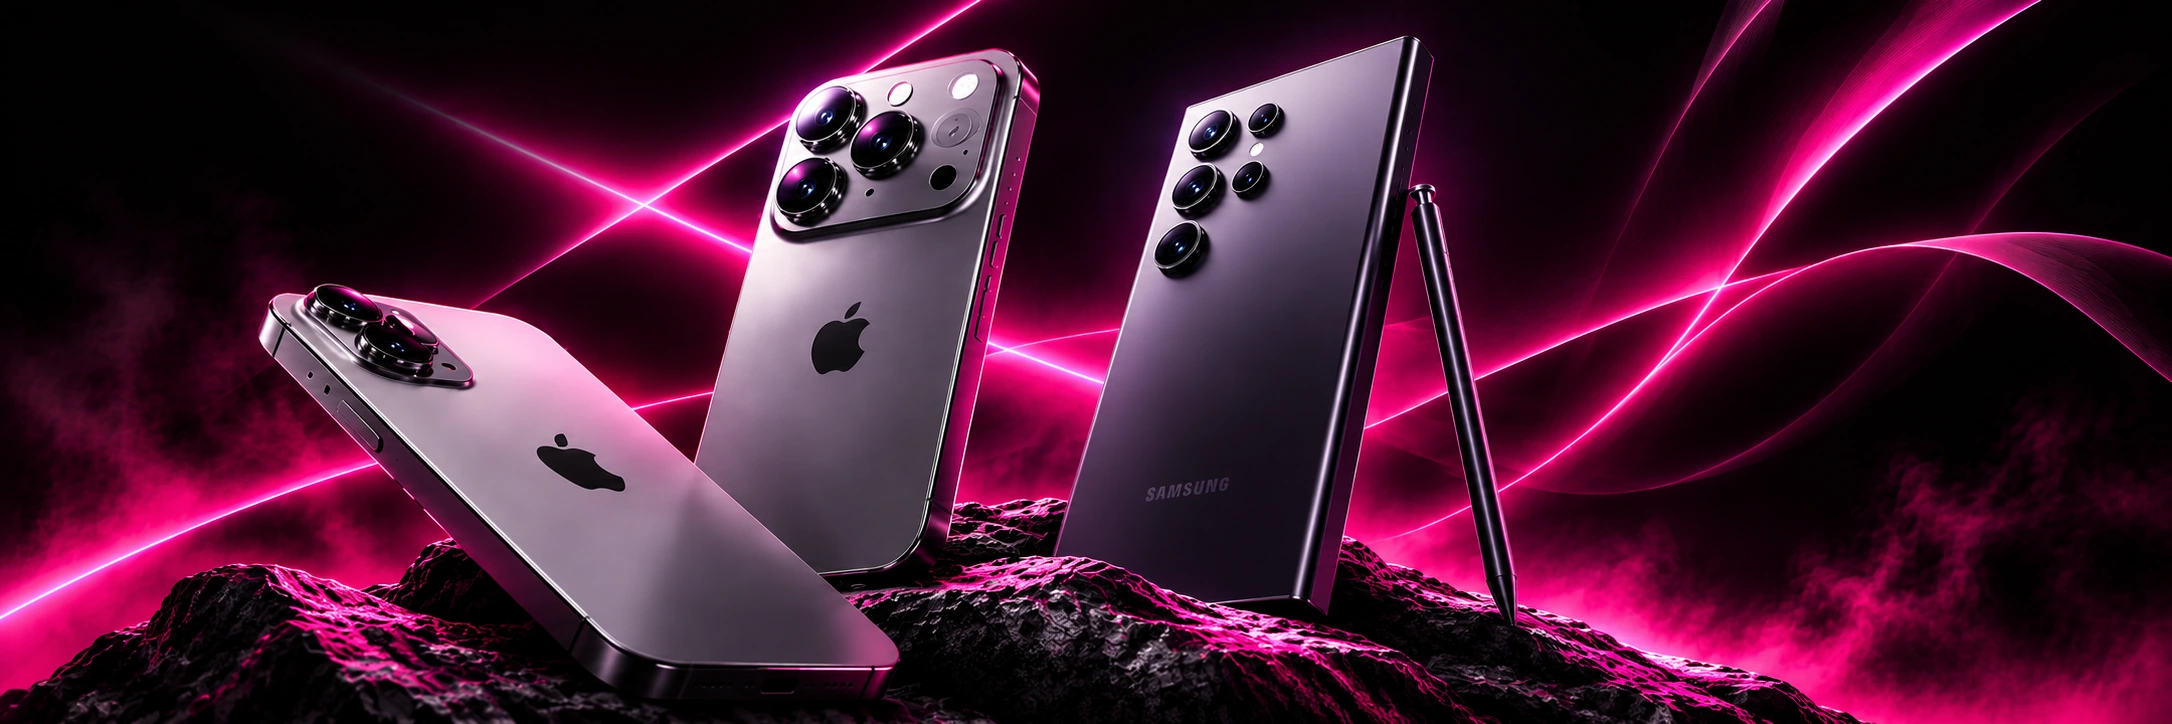
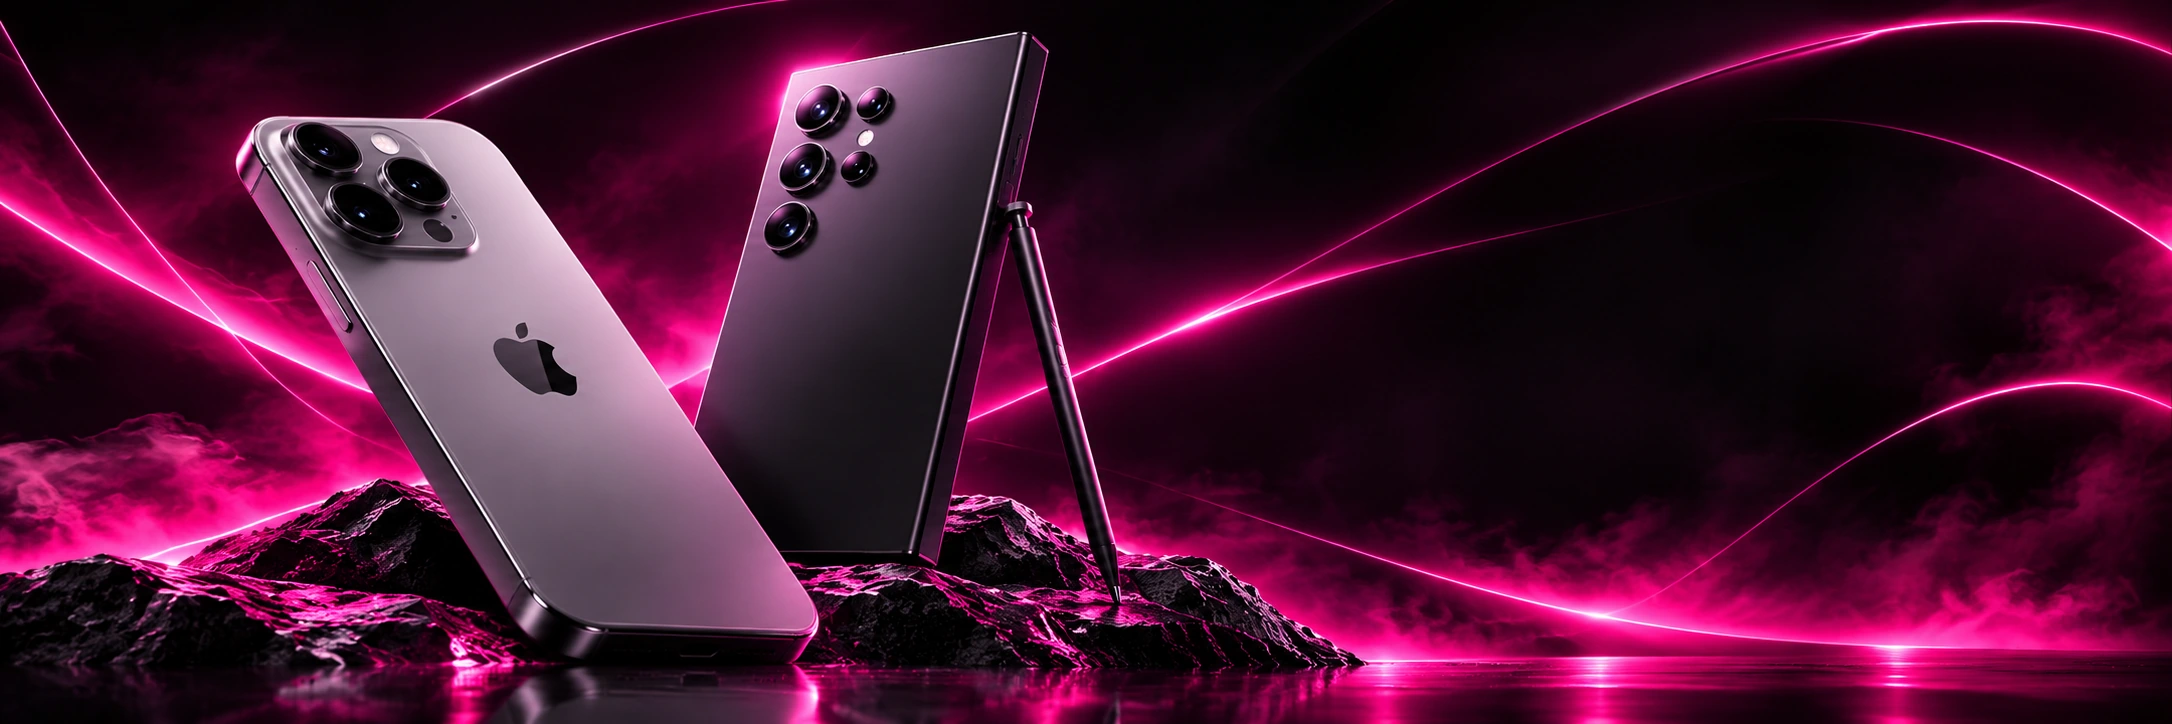
Add files via upload

diff --git a/index.html b/index.html
@@ -392,7 +392,135 @@ html[data-dd-store-theme="light"] .brandBar .brandApple {
 }
 </style><link rel="stylesheet" href="/dd-mobile-app.css?v=1"><link rel="stylesheet" href="/dd-shopping-motion.css">
 <script defer src="/dd-shopping-sounds.js"></script>
-<script src="/dd-unified-theme.js"></script></head><body data-dd-recent="yes"><div class="top">PREMIUM SMARTPHONE COLLECTION • 35 CURATED MODELS</div><header class="nav"><a aria-label="Done Deal homepage" class="logoLink" href="index.html"><div class="logo"><img alt="Done Deal emblem" class="ddBrandMark" src="done-deal-mark.png"/> DONE DEAL<span> GADGETS &amp; SUPPLIES.</span></div></a><nav class="navlinks"><a data-nav="home" href="#home">Home</a><a data-nav="shop" href="#shop">Shop Phones</a><a data-nav="about" href="#about">About</a></nav><button onclick="openCart()">Cart <span id="cartCount">(0)</span></button></header><main id="home"><section class="hero"><div class="heroInner"><div aria-label="Promotional model holding a silver smartphone" class="heroPhoto" role="img"></div><div class="heroCopy"><div class="eyebrow">EXPLORE THE APPLE COLLECTION <span class="eyebrowLine"></span></div><h1><img alt="Apple" class="appleLogo heroApple" onerror="this.style.display='none'" src="apple-logo.svg"/> Explore Apple iPhones</h1><h2>Discover more. <em>A new level ahead.</em></h2><p>Explore the next generation of premium smartphones, advanced cameras and powerful performance at Done Deal Phone &amp; Gadgets.</p><div class="heroFeatures"><span><b>◎</b> Pro Camera<br/>System</span><span><b>▣</b> Next-Gen<br/>Performance</span><span><b>▤</b> All-Day<br/>Battery Life</span></div><button class="btn" onclick="selectBrand('Apple')">Shop Apple Phones →</button><p class="heroFine">Concept promotional image · Confirm model specifications and availability before purchase</p></div><div aria-label="Silver concept smartphone product close-up" class="heroProduct" role="img"></div></div></section><div aria-label="Shop by brand" class="brandBar"><button class="brandTile apple" onclick="selectBrand('Apple')"><img alt="" class="appleLogo brandApple" onerror="this.style.display='none'" src="apple-logo.svg"/> Apple</button><button class="brandTile samsung" onclick="selectBrand('Samsung')"><span class="samsungWord">SAMSUNG</span></button><button class="brandTile huawei" onclick="selectBrand('Huawei')"><img alt="" class="brandIcon huaweiIcon" src="https://cdn.jsdelivr.net/npm/simple-icons@v15/icons/huawei.svg"/> HUAWEI</button><button class="brandTile xiaomi" onclick="selectBrand('Xiaomi')"><span class="miMark">mi</span> Xiaomi</button><button class="brandTile oppo" onclick="selectBrand('OPPO')">oppo</button><button class="brandTile vivo" onclick="selectBrand('vivo')">vivo</button></div>
+<script src="/dd-unified-theme.js"></script>
+<style id="dd-desktop-hero-layout-fix">
+/* Desktop hero: full-width Apple + Samsung artwork with a readable content panel */
+@media (min-width: 761px) {
+  main#home > .hero {
+    background: #0b0910 !important;
+    padding: 0 !important;
+  }
+  main#home > .hero .heroInner {
+    display: block !important;
+    position: relative !important;
+    isolation: isolate !important;
+    width: 100% !important;
+    max-width: none !important;
+    height: clamp(470px, 37vw, 650px) !important;
+    min-height: 0 !important;
+    aspect-ratio: auto !important;
+    padding: 0 !important;
+    overflow: hidden !important;
+    background-color: #09070d !important;
+    background-image: url('hero-unified.webp') !important;
+    background-repeat: no-repeat !important;
+    background-size: cover !important;
+    background-position: center 52% !important;
+    border-radius: 0 !important;
+  }
+  main#home > .hero .heroPhoto,
+  main#home > .hero .heroProduct {
+    display: none !important;
+  }
+  main#home > .hero .heroInner::before {
+    content: "" !important;
+    position: absolute !important;
+    inset: 0 !important;
+    z-index: 1 !important;
+    pointer-events: none !important;
+    background:
+      linear-gradient(90deg,
+        rgba(8,6,12,0) 0%,
+        rgba(8,6,12,0.02) 43%,
+        rgba(8,6,12,0.40) 55%,
+        rgba(8,6,12,0.82) 100%) !important;
+  }
+  main#home > .hero .heroCopy {
+    position: absolute !important;
+    z-index: 2 !important;
+    left: auto !important;
+    right: clamp(28px, 6vw, 110px) !important;
+    top: 50% !important;
+    bottom: auto !important;
+    transform: translateY(-50%) !important;
+    width: min(41%, 650px) !important;
+    min-height: 0 !important;
+    height: auto !important;
+    margin: 0 !important;
+    padding: clamp(28px, 3.2vw, 52px) !important;
+    box-sizing: border-box !important;
+    display: flex !important;
+    flex-direction: column !important;
+    align-items: flex-start !important;
+    justify-content: center !important;
+    background: rgba(12, 9, 17, 0.70) !important;
+    border: 1px solid rgba(255, 65, 151, 0.30) !important;
+    border-radius: 22px !important;
+    box-shadow: 0 24px 70px rgba(0,0,0,.38), inset 0 1px 0 rgba(255,255,255,.06) !important;
+    backdrop-filter: blur(12px) !important;
+    -webkit-backdrop-filter: blur(12px) !important;
+    text-shadow: 0 2px 14px rgba(0,0,0,.55) !important;
+  }
+  main#home > .hero .heroCopy .eyebrow {
+    color: #ff5ca6 !important;
+    font-size: 12px !important;
+    letter-spacing: 2px !important;
+    font-weight: 800 !important;
+  }
+  main#home > .hero .heroCopy h1 {
+    white-space: normal !important;
+    display: flex !important;
+    flex-wrap: wrap !important;
+    align-items: center !important;
+    gap: 10px !important;
+    font-size: clamp(32px, 3.1vw, 56px) !important;
+    line-height: 1.08 !important;
+    letter-spacing: -1.8px !important;
+    margin: 18px 0 10px !important;
+  }
+  main#home > .hero .heroCopy h2 {
+    white-space: normal !important;
+    font-size: clamp(21px, 1.8vw, 31px) !important;
+    line-height: 1.2 !important;
+    margin: 0 0 10px !important;
+  }
+  main#home > .hero .heroCopy p {
+    max-width: 520px !important;
+    font-size: clamp(13px, .95vw, 16px) !important;
+    line-height: 1.65 !important;
+  }
+  main#home > .hero .heroFeatures {
+    display: flex !important;
+    flex-wrap: wrap !important;
+    justify-content: flex-start !important;
+    gap: 18px !important;
+    margin: 18px 0 22px !important;
+  }
+  main#home > .hero .heroFeatures span {
+    font-size: 12px !important;
+    padding: 0 12px 0 0 !important;
+    border: 0 !important;
+  }
+  main#home > .hero .heroFeatures b {
+    color: #ff4c9b !important;
+  }
+  main#home > .hero .hero .btn,
+  main#home > .hero .btn {
+    padding: 14px 25px !important;
+    border-radius: 12px !important;
+    background: linear-gradient(110deg, #f23889, #d91c76) !important;
+    box-shadow: 0 10px 30px rgba(238, 28, 126, .30) !important;
+    font-weight: 800 !important;
+  }
+  main#home > .hero .heroFine {
+    margin-top: 14px !important;
+    font-size: 10px !important;
+    opacity: .78 !important;
+  }
+}
+</style>
+
+</head><body data-dd-recent="yes"><div class="top">PREMIUM SMARTPHONE COLLECTION • 35 CURATED MODELS</div><header class="nav"><a aria-label="Done Deal homepage" class="logoLink" href="index.html"><div class="logo"><img alt="Done Deal emblem" class="ddBrandMark" src="done-deal-mark.png"/> DONE DEAL<span> GADGETS &amp; SUPPLIES.</span></div></a><nav class="navlinks"><a data-nav="home" href="#home">Home</a><a data-nav="shop" href="#shop">Shop Phones</a><a data-nav="about" href="#about">About</a></nav><button onclick="openCart()">Cart <span id="cartCount">(0)</span></button></header><main id="home"><section class="hero"><div class="heroInner"><div aria-label="Promotional model holding a silver smartphone" class="heroPhoto" role="img"></div><div class="heroCopy"><div class="eyebrow">EXPLORE THE APPLE COLLECTION <span class="eyebrowLine"></span></div><h1><img alt="Apple" class="appleLogo heroApple" onerror="this.style.display='none'" src="apple-logo.svg"/> Explore Apple iPhones</h1><h2>Discover more. <em>A new level ahead.</em></h2><p>Explore the next generation of premium smartphones, advanced cameras and powerful performance at Done Deal Phone &amp; Gadgets.</p><div class="heroFeatures"><span><b>◎</b> Pro Camera<br/>System</span><span><b>▣</b> Next-Gen<br/>Performance</span><span><b>▤</b> All-Day<br/>Battery Life</span></div><button class="btn" onclick="selectBrand('Apple')">Shop Apple Phones →</button><p class="heroFine">Concept promotional image · Confirm model specifications and availability before purchase</p></div><div aria-label="Silver concept smartphone product close-up" class="heroProduct" role="img"></div></div></section><div aria-label="Shop by brand" class="brandBar"><button class="brandTile apple" onclick="selectBrand('Apple')"><img alt="" class="appleLogo brandApple" onerror="this.style.display='none'" src="apple-logo.svg"/> Apple</button><button class="brandTile samsung" onclick="selectBrand('Samsung')"><span class="samsungWord">SAMSUNG</span></button><button class="brandTile huawei" onclick="selectBrand('Huawei')"><img alt="" class="brandIcon huaweiIcon" src="https://cdn.jsdelivr.net/npm/simple-icons@v15/icons/huawei.svg"/> HUAWEI</button><button class="brandTile xiaomi" onclick="selectBrand('Xiaomi')"><span class="miMark">mi</span> Xiaomi</button><button class="brandTile oppo" onclick="selectBrand('OPPO')">oppo</button><button class="brandTile vivo" onclick="selectBrand('vivo')">vivo</button></div>
 <section class="dd-story" id="dd-story" aria-label="The DONEDEAL story">
  <div class="dd-story-intro"><span class="dd-story-kicker">THE DONEDEAL STORY</span><h2>Beyond the Device.</h2><p>Innovation. Connection. Possibility.</p></div>
  <article class="dd-story-chapter">
